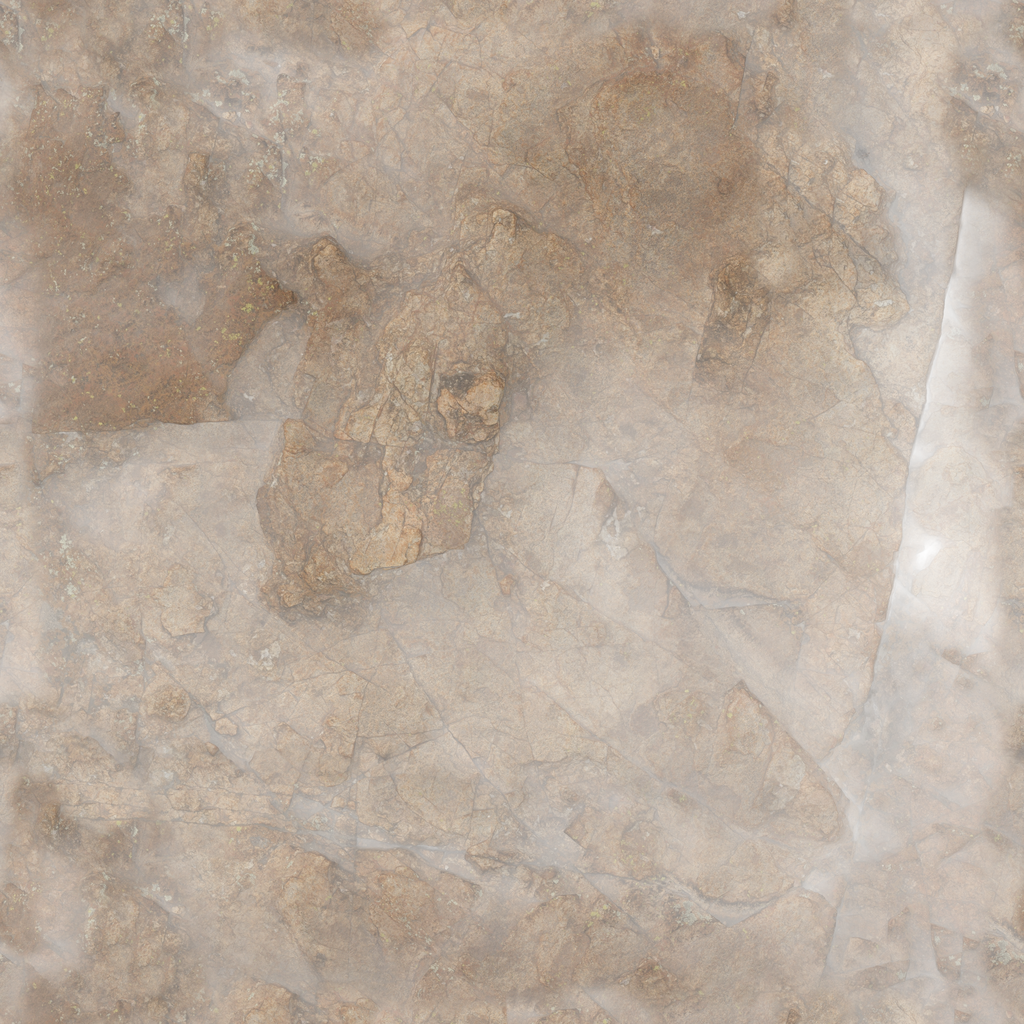
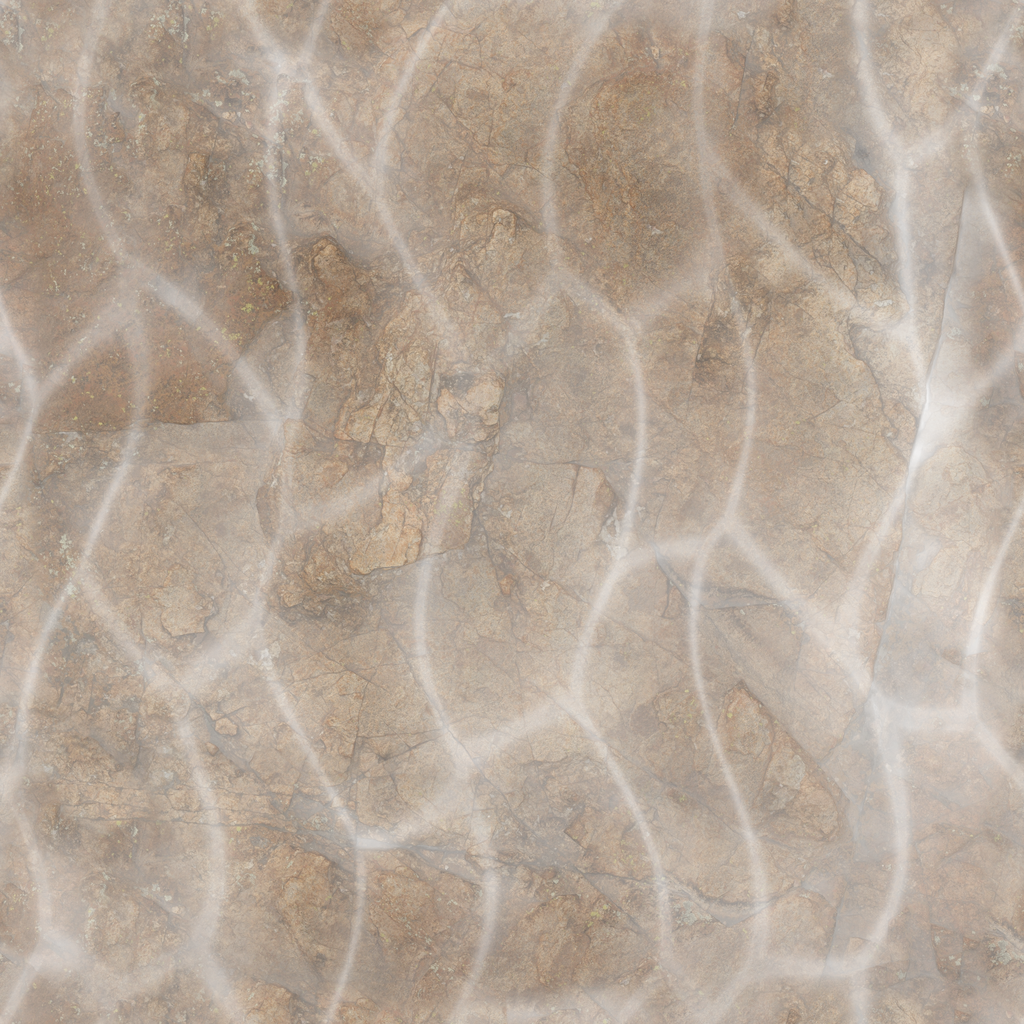
Bake broader slab relief into alpine rock materials
Layer deterministic elongated joints into the existing packed photographic material and retain secondary detail on steep faces. Include matched screenshots, source notes and bake self-checks.

diff --git a/tools/bake_alpine_assets.py b/tools/bake_alpine_assets.py
@@ -28,6 +28,46 @@ def source(name):
     return Image.open(path).resize((1024, 1024), Image.Resampling.LANCZOS)
 
 
+def fractured_rock(color, height, normal, ao, rough):
+    """Bake metre-scale joints over the photograph; all channels share the relief."""
+    size = color.width
+    columns, rows = 7, 3
+    y, x = np.mgrid[0:size, 0:size].astype(np.float32) / size
+    u = x * columns + .22 * np.sin(y * np.pi * 4) + .09 * np.sin(x * np.pi * 6)
+    v = y * rows + .18 * np.sin(x * np.pi * 4)
+    cells = np.random.default_rng(431).uniform(.15, .85, (rows, columns, 2))
+    ix, iy = np.floor(u).astype(int), np.floor(v).astype(int)
+    first = np.full(x.shape, 100.0)
+    second = first.copy()
+    for dz in [-1, 0, 1]:
+        for dx in [-1, 0, 1]:
+            offset = cells[(iy + dz) % rows, (ix + dx) % columns]
+            distance = (u - ix - dx - offset[..., 0]) ** 2 + (v - iy - dz - offset[..., 1]) ** 2
+            second = np.minimum(second, np.maximum(first, distance))
+            first = np.minimum(first, distance)
+    edge = np.sqrt(second) - np.sqrt(first)
+    joint = np.exp(-(edge * 13) ** 2)
+    # Broad irregular slabs meet at recessed joints, not painted dark lines alone.
+    relief = .20 * (1 - joint) + .10 * np.cos(np.sqrt(first) * 3.5)
+    texel_metres = 48.0 / size
+    dx = (np.roll(relief, -1, 1) - np.roll(relief, 1, 1)) / (2 * texel_metres)
+    dy = (np.roll(relief, -1, 0) - np.roll(relief, 1, 0)) / (2 * texel_metres)
+    n = np.asarray(normal, dtype=np.float32) / 127.5 - 1
+    xy = n[..., :2] / np.maximum(n[..., 2:3], .35) - np.stack([dx, dy], axis=-1)
+    nz = 1 / np.sqrt(1 + np.sum(xy * xy, axis=-1))
+    mapped = np.dstack([xy * nz[..., None], nz])
+    assert np.isfinite(mapped).all() and np.max(np.abs(np.linalg.norm(mapped, axis=-1) - 1)) < .0001
+    def gray(values):
+        return Image.fromarray(np.clip(values, 0, 255).astype(np.uint8), 'L')
+    color = Image.fromarray(np.clip(np.asarray(color) * (1 - joint[..., None] * .06), 0, 255).astype(np.uint8), 'RGB')
+    height = gray(np.asarray(height) * .72 + np.clip(relief / .30, 0, 1) * 255 * .28)
+    normal = Image.fromarray(np.clip((mapped + 1) * 127.5, 0, 255).astype(np.uint8), 'RGB')
+    ao = gray(np.asarray(ao) * (1 - joint * .25))
+    rough = gray(np.asarray(rough) * (1 - joint * .15) + joint * 255 * .15)
+    assert np.ptp(relief) > .20 and np.max(np.abs(dx)) > .2
+    return color, height, normal, ao, rough
+
+
 def materials():
     for name in ["rock_face_03", "aerial_rocks_02", "aerial_grass_rock"]:
         color = source(name + "_diff_2k.jpg").convert("RGB")
@@ -35,6 +75,8 @@ def materials():
         normal = source(name + "_nor_gl_2k.jpg").convert("RGB")
         ao = source(name + "_ao_2k.jpg").convert("L")
         rough = source(name + "_rough_2k.jpg").convert("L")
+        if name == "rock_face_03":
+            color, height, normal, ao, rough = fractured_rock(color, height, normal, ao, rough)
         # Colour RGB is sRGB; alpha and every channel of surface remain linear data.
         Image.merge("RGBA", (*color.split(), height)).save(ASSETS / (name + "_color_height.png"))
         Image.merge("RGBA", (*normal.split()[:2], ao, rough)).save(ASSETS / (name + "_surface.png"))

diff --git a/docs/DEVELOPMENT.md b/docs/DEVELOPMENT.md
@@ -827,6 +827,13 @@ stores linear normal XY, ambient occlusion and roughness in RGBA. Keep lossless 
 mipmaps enabled and alpha-border correction disabled. The shader reconstructs normal Z,
 blends layers using displacement, and reuses the same 18 triplanar texture reads.
 
+Rock-face materials include deterministic, periodic elongated slab joints. Their
+normal derivatives use the 48-metre material scale, and all packed channels share
+the same relief. This changes shading only, not collision or the terrain silhouette.
+The baker checks finite unit normals and non-flat relief. NVIDIA GPU Gems 3
+[terrain texturing](https://developer.nvidia.com/gpugems/gpugems3/part-i-geometry/chapter-1-generating-complex-procedural-terrains-using-gpu)
+describes the triplanar projection and layered detail used as the basis here.
+
 The offline kit also bakes three 33-square heightfield forms: buttress, cirque and
 saddle. Standard generation rotates and scales them before erosion and road grading;
 collision, navigation and replication use the resulting terrain. These are analytic

diff --git a/docs/FEATURES.md b/docs/FEATURES.md
@@ -545,7 +545,7 @@ Ambush Alley autoplay can call its existing mortar support against spotted, stop
 - Standard battlefields have seeded mountain belts, hills, valleys and rivers. Domain-warped ridged noise,
   jointed bedrock shelves, thermal weathering and seeded rainfall erosion shape the relief. Roads, bridges, starting bases and settlements
   occupy graded valley corridors; forests stay below the snow line and off steep faces.
-- Moss and soil blend into exposed stone on slopes, with layered rock detail and snow on high sheltered ground.
+- Moss and soil blend into exposed stone on slopes, with baked slab fractures, layered rock detail and snow on high sheltered ground.
   Photograph-derived height, normals, crevice shading and roughness give each material distinct relief;
   height-based transitions let rock emerge through moss and snow. Reusable buttress, bowl and saddle
   forms shape standard mountains before erosion, with small conifer stands along suitable foothills.

diff --git a/changelog/unreleased/alpine-rock-relief.md b/changelog/unreleased/alpine-rock-relief.md
@@ -1,0 +1,20 @@
++++
+title = "Broken stone across mountain faces"
+summary = "Mountain faces gain broader slab fractures, cooler stone and more varied surface detail."
+kind = "improved"
+
+[[screenshots]]
+file = "before.jpg"
+caption = "Before: the previous rock material, with the same seed, daylight and camera."
+
+[[screenshots]]
+file = "after.jpg"
+caption = "After: cooler rock with recessed slab joints layered over the photographic surface."
++++
+
+Cliff materials combine larger elongated fractures with smaller photographic grain.
+The detail is baked into the existing material textures, including normals and
+occlusion, so it uses no additional terrain texture samples. Steep faces retain
+more of their secondary stone detail instead of exposing one uniform layer.
+
+This improves surface shading; mountain silhouettes and movement limits are unchanged.

diff --git a/assets/terrain/LICENSE.md b/assets/terrain/LICENSE.md
@@ -17,6 +17,9 @@ only by the offline baker. Source URLs and checksums are recorded in sources.jso
 - `*_color_height.png`: sRGB diffuse RGB, linear displacement in alpha.
 - `*_surface.png`: linear OpenGL normal XY, ambient occlusion B, roughness A.
 
+The rock-face pair also includes original procedural slab joints baked into its
+height, normals, occlusion, colour and roughness. No additional source assets are used.
+
 Alpha is material data, not transparency. Import keeps all four channels, disables
 alpha-border repair and generates mipmaps. The runtime uses the same number of
 texture reads as the earlier colour/normal pair, with additional surface relief.
